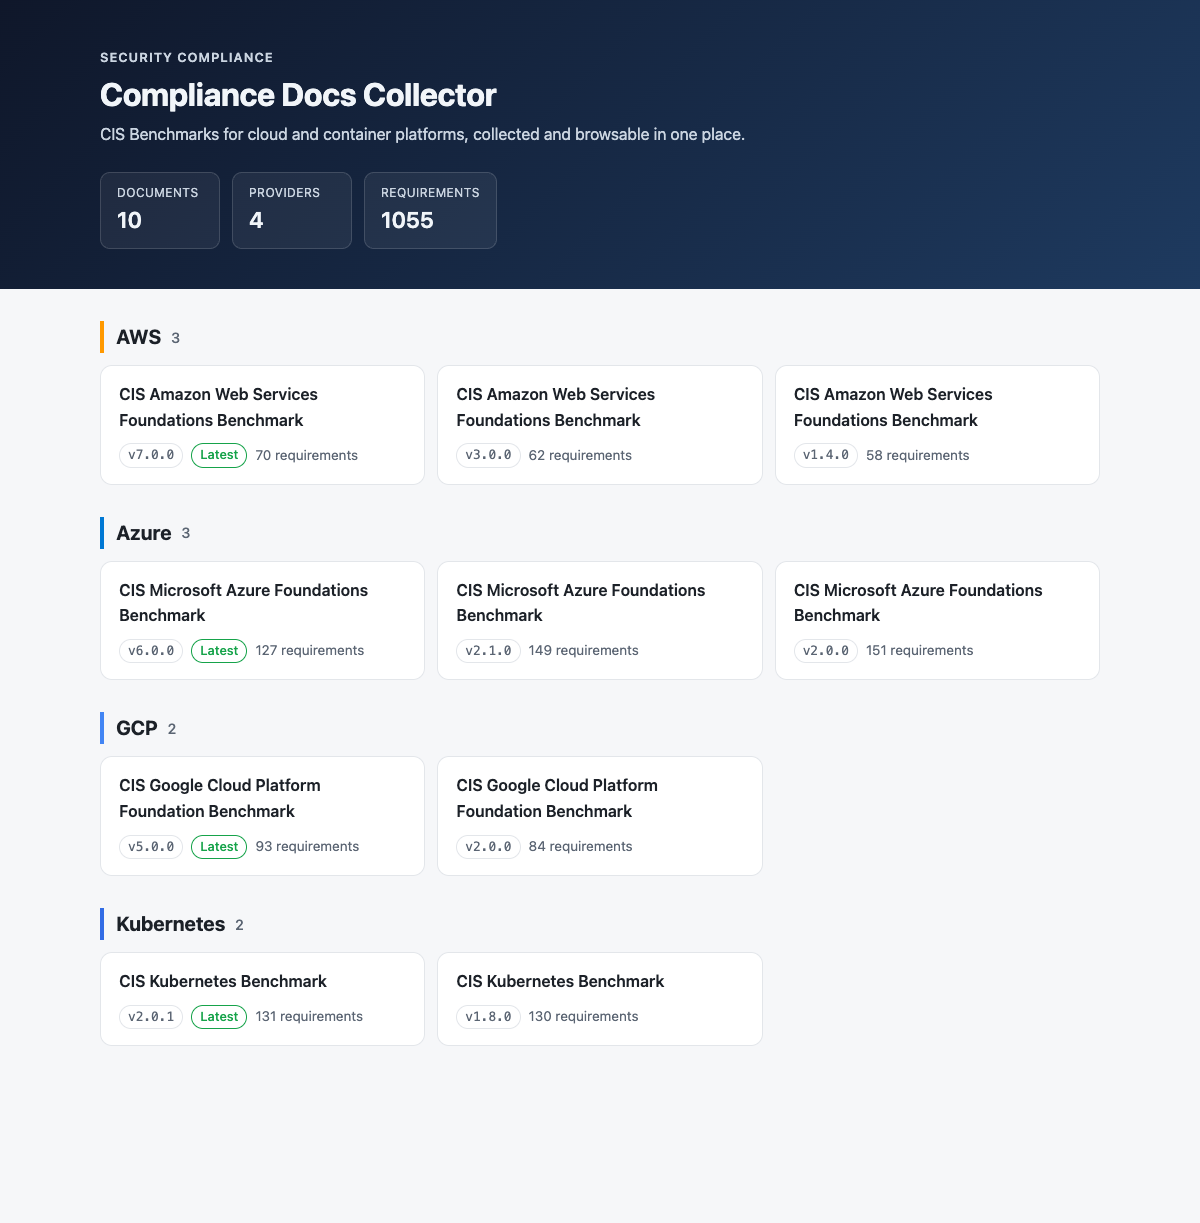
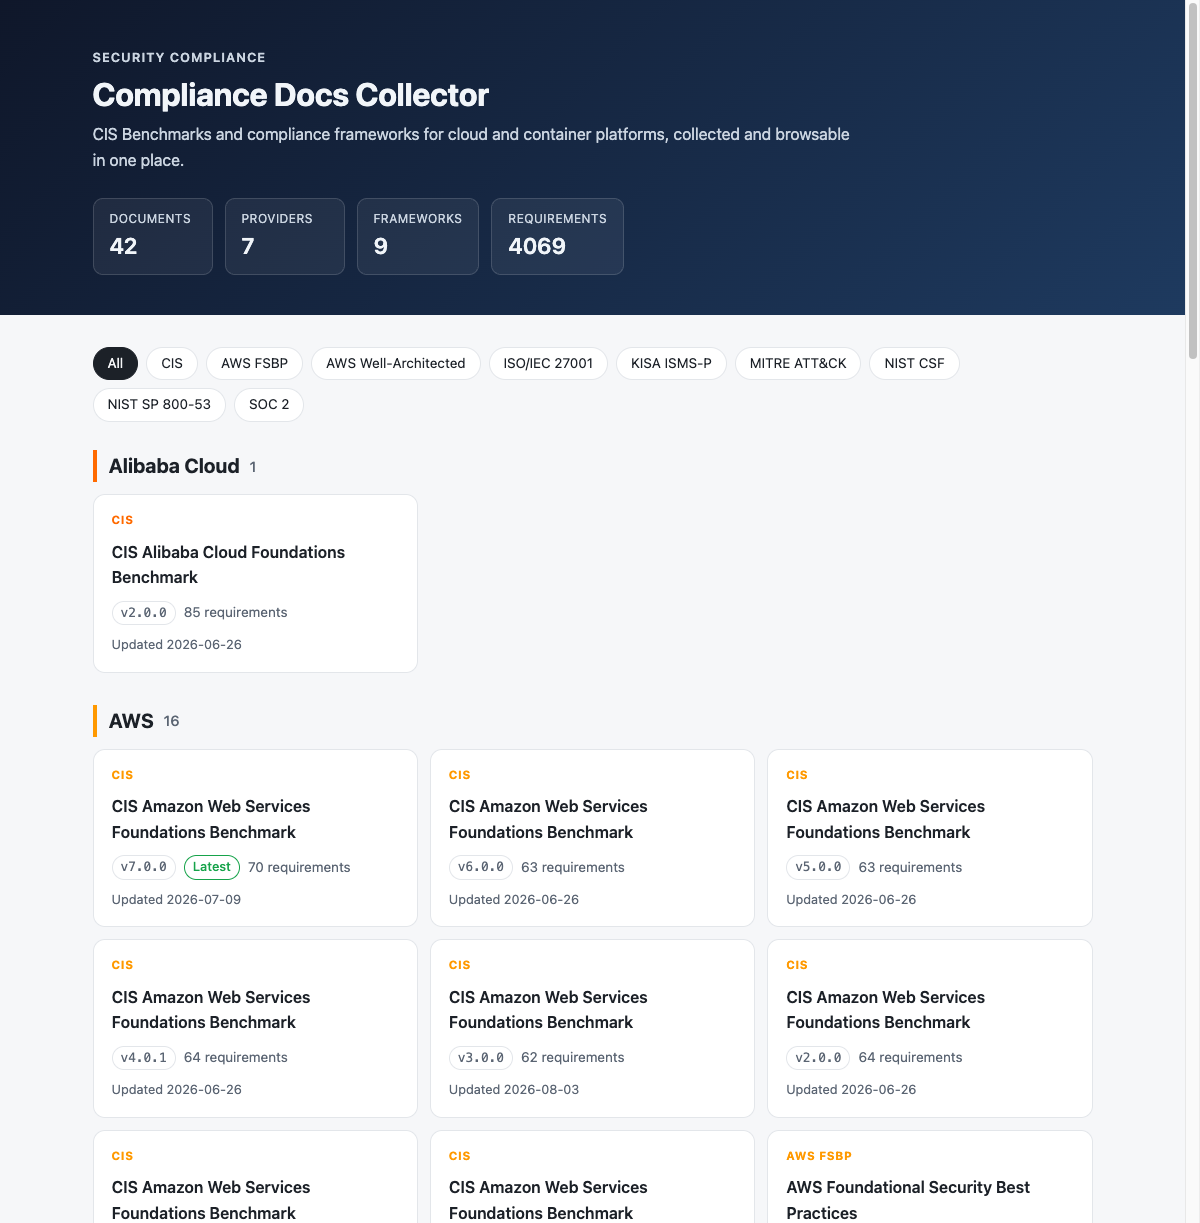
docs: document frameworks, manifest and docker usage

diff --git a/README.md b/README.md
@@ -1,7 +1,6 @@
 # Security Compliance Docs Collector
 
-This tool collects and displays security compliance documents from various cloud providers.
-It provides an easy-to-use interface for viewing the contents of these documents.
+Collects security compliance documents — CIS Benchmarks and frameworks such as ISO/IEC 27001, KISA ISMS-P, NIST SP 800-53 and SOC 2 — for cloud and container platforms, tracks their upstream revisions, and serves them through a web viewer with framework filters.
 
 ![Security Compliance Docs Collector](assets/screenshot.png)
 
@@ -34,53 +33,70 @@ go run . -addr 127.0.0.1:9000 -docs ./docs
 | Flag | Default | Description |
 |---|---|---|
 | `-addr` | `127.0.0.1:8080` | Listen address |
-| `-docs` | `docs` | Directory containing compliance documents (`<provider>/<benchmark>.json`) |
+| `-docs` | `docs` | Directory containing compliance documents (`<provider>/<document>.json`) |
+
+Or run it in a container:
+
+```sh
+make docker   # builds the image and serves on http://localhost:8080
+```
 
 ### Collecting Documents
 
-`cmd/collect` checks the upstream catalog for CIS benchmark versions that are not in `docs/` yet, validates them (framework, provider, version, requirements) and stores them. Existing documents are never overwritten.
+`cmd/collect` looks up each document in the upstream catalog, validates it (framework, provider, version, requirements) and stores it under `docs/<provider>/`. The upstream commit, its date and the collection date are recorded in `docs/manifest.json`, which the web viewer shows as **Last updated** and **Collected**.
 
 ```sh
-make collect        # latest version per provider
-make collect-all    # every published version
-go run ./cmd/collect -ref <tag-or-commit>   # pin the upstream revision
+make collect        # latest CIS benchmark per provider + other frameworks
+make collect-all    # every published CIS benchmark version
+make refresh        # also replace documents that changed upstream
+go run ./cmd/collect -match aws/          # only documents whose path matches
+go run ./cmd/collect -ref <tag-or-commit> # pin the upstream revision
 ```
 
-Set `GITHUB_TOKEN` (or put it in `.env`, see `.env.template`) to raise the GitHub API rate limit.
+Existing documents are only replaced with `-refresh`; otherwise they are reported as `outdated`. Set `GITHUB_TOKEN` (or put it in `.env`, see `.env.template`) to raise the GitHub API rate limit.
 
 ### Collected Documents
 
-| Provider | CIS Benchmark versions |
-|---|---|
-| AWS | v1.4.0, v3.0.0, v7.0.0 |
-| Azure | v2.0.0, v2.1.0, v6.0.0 |
-| GCP | v2.0.0, v5.0.0 |
-| Kubernetes | v1.8.0, v2.0.1 |
+42 documents across 7 providers.
+
+| Provider | CIS Benchmarks | Other frameworks |
+|---|---|---|
+| AWS | v1.4.0, v1.5.0, v2.0.0, v3.0.0, v4.0.1, v5.0.0, v6.0.0, v7.0.0 | AWS FSBP, AWS Well-Architected (Security), ISO/IEC 27001:2022, KISA ISMS-P 2023 (Korean), MITRE ATT&CK, NIST CSF 2.0, NIST SP 800-53 Rev. 5, SOC 2 |
+| Azure | v2.0.0, v2.1.0, v3.0.0, v4.0.0, v5.0.0, v6.0.0 | ISO/IEC 27001:2022, MITRE ATT&CK, SOC 2 |
+| Google Cloud | v2.0.0, v3.0.0, v4.0.0, v5.0.0 | ISO/IEC 27001:2022, MITRE ATT&CK, SOC 2 |
+| Kubernetes | v1.8.0, v1.10.0, v1.11.1, v1.12.0, v2.0.1 | ISO/IEC 27001:2022 |
+| Oracle Cloud | v3.0.0, v3.1.0 | — |
+| Alibaba Cloud | v2.0.0 | — |
+| NHN Cloud | — | ISO/IEC 27001:2022 |
 
 ### Project Structure
 
 ```
 .
 ├── main.go                  # entrypoint: flags, http.Server
-├── cmd/collect/             # collects new benchmark versions into docs/
+├── cmd/collect/             # collects documents into docs/
 ├── docs/                    # compliance documents grouped by provider
+│   └── manifest.json        # upstream revision and dates of each document
 └── internal/
     ├── catalog/             # builds the document tree, reads documents safely
     ├── collector/           # lists, validates and stores upstream documents
+    ├── manifest/            # reads and writes docs/manifest.json
     └── web/                 # HTTP handlers + embedded templates/static assets
 ```
 
 ### Development
 
 ```sh
-make test   # go test ./...
+make test   # go test ./... (also run by GitHub Actions on every push)
 make vet    # go vet ./...
 make fmt    # gofmt -w .
 ```
 
 ### Features
 
-- Display a list of security compliance documents organized by cloud provider, newest version first with requirement counts
+- Display a list of security compliance documents organized by cloud provider and framework, newest version first with requirement counts
+- Filter documents by framework (CIS, ISO/IEC 27001, KISA ISMS-P, NIST, SOC 2, MITRE ATT&CK, ...)
+- Show when each document last changed upstream and when it was collected, with a link to the pinned source
 - View the contents of JSON-formatted compliance documents in an interactive tree structure
 - Easy navigation between document list and individual document views
 - Document access is confined to the docs directory (`os.Root`), so path traversal requests are rejected
@@ -88,7 +104,7 @@ make fmt    # gofmt -w .
 
 ### Data Source
 
-The compliance documents in `docs/` are collected from the compliance catalog of [Prowler](https://github.com/prowler-cloud/prowler/tree/master/prowler/compliance) (Apache License 2.0), which maps CIS Benchmark requirements to automated checks. CIS Benchmarks are © Center for Internet Security, Inc.
+The compliance documents in `docs/` are collected from the compliance catalog of [Prowler](https://github.com/prowler-cloud/prowler/tree/master/prowler/compliance) (Apache License 2.0), which maps CIS Benchmark and compliance framework requirements to automated checks. CIS Benchmarks are © Center for Internet Security, Inc.; each framework remains the property of its publisher.
 
 ### License
 
